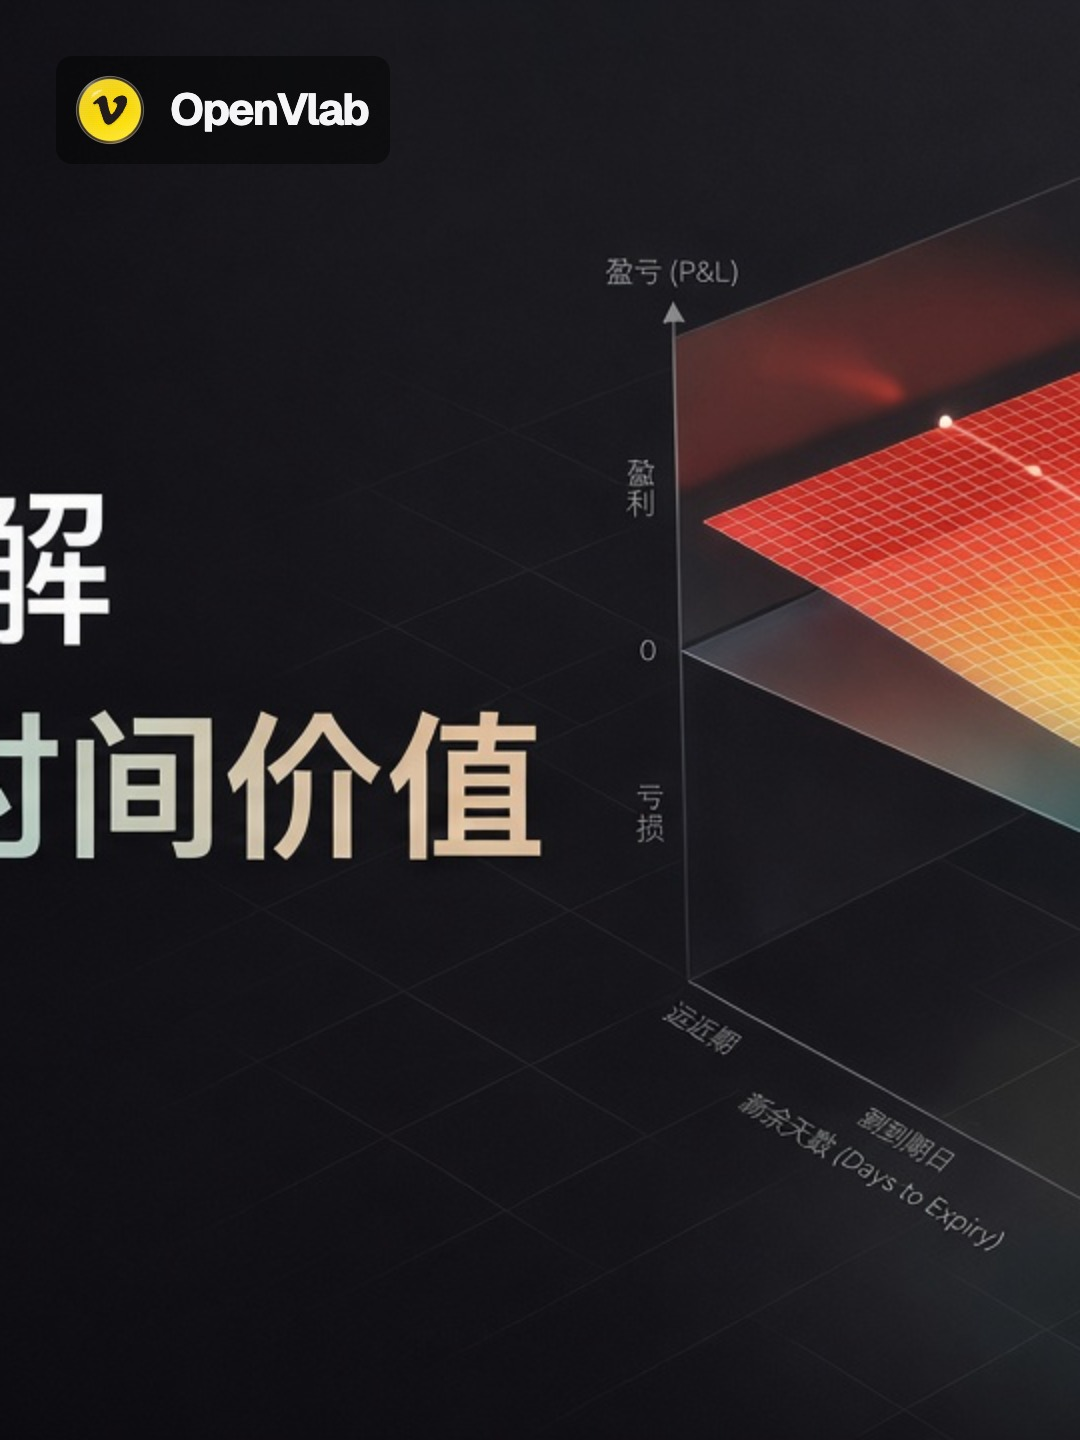
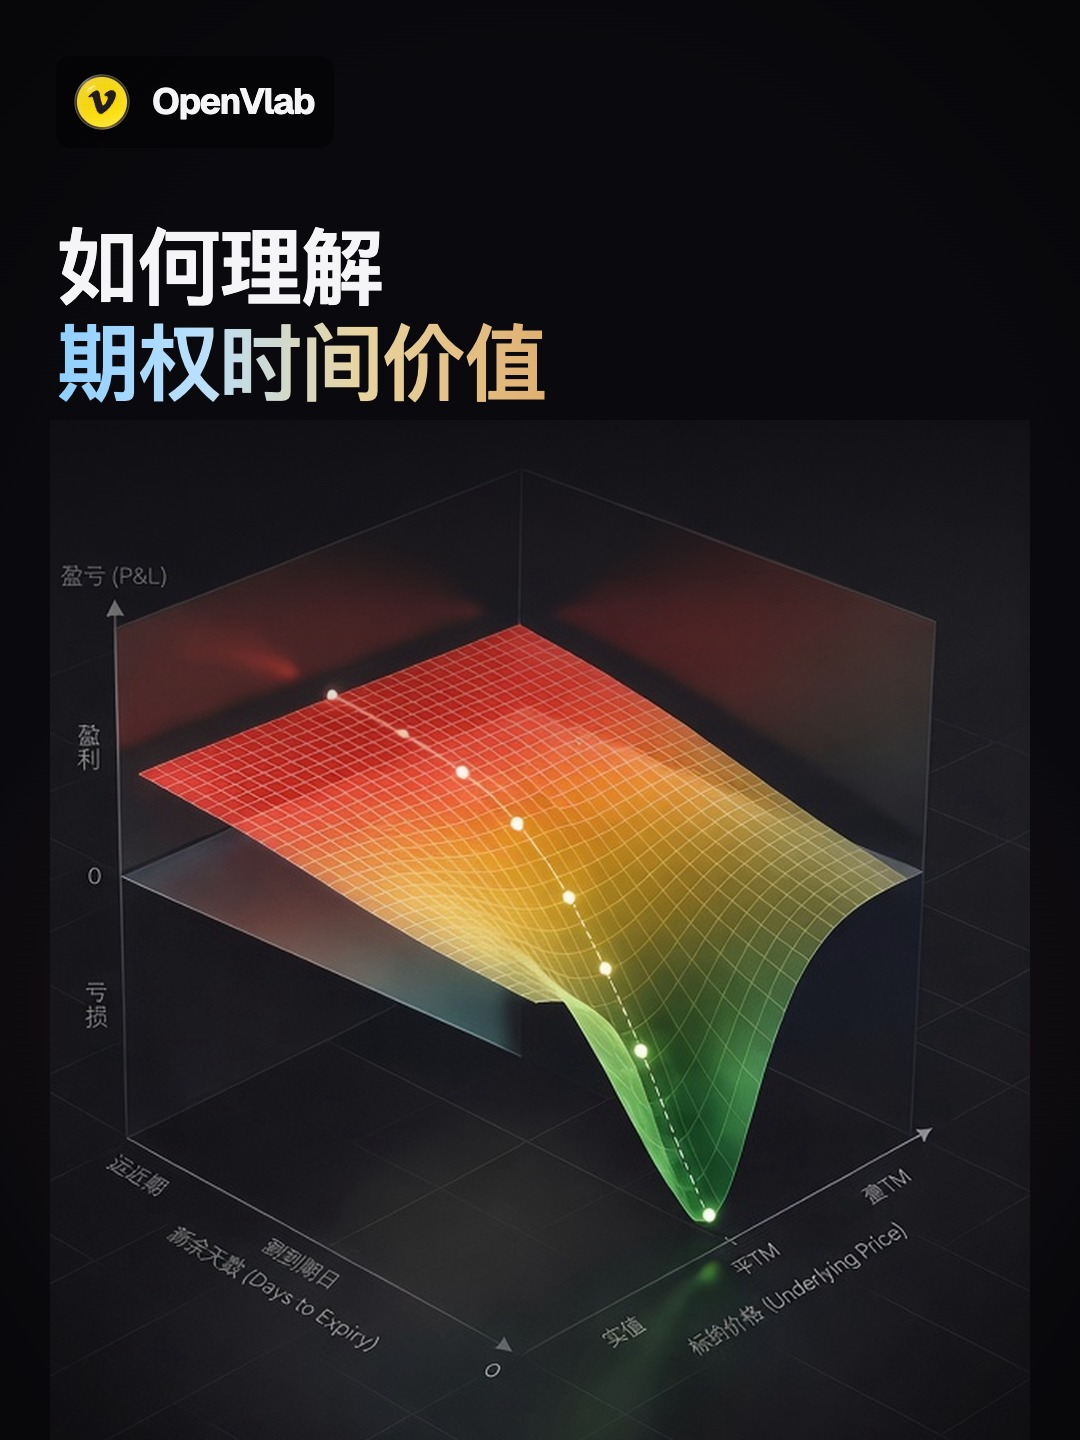
fix(openvlab-strategy): re-layout 4:3 and 3:4 covers
Stop cropping the 16:9 bake. Compose brand + Remotion title over a
title-free surface plate, stacked like surf covers.

diff --git a/src/openvlab-strategy/Cover.tsx b/src/openvlab-strategy/Cover.tsx
@@ -6,8 +6,16 @@ import { SANS } from "../shared/fonts";
 /** Brand wordmark — same stack as openvlab-surf Cover (Geist / SANS). */
 export const BRAND = SANS;
 
-const ART = "openvlab-strategy/covers/cover-art.jpg";
 const LOGO = "openvlab-strategy/logo.svg";
+const ART_16 = "openvlab-strategy/covers/cover-art.jpg";
+const SURFACE = "openvlab-strategy/covers/surface-plate.png";
+
+const TITLE_L1 = "如何理解";
+const TITLE_L2 = "期权时间价值";
+
+/** Match the baked 16:9 title: 期权 cool cyan → 时间价值 warm peach. */
+const TITLE_GRAD =
+  "linear-gradient(90deg, #8ecfff 0%, #b8dfff 28%, #e8d4a0 62%, #e0b070 100%)";
 
 type BrandBarProps = {
   mark: number;
@@ -39,6 +47,7 @@ const BrandBar: React.FC<BrandBarProps> = ({
       padding: `${padY}px ${padX}px ${padY}px ${padY}px`,
       borderRadius: radius,
       background: "rgba(0,0,0,0.45)",
+      zIndex: 3,
     }}
   >
     <BrandMark size={mark} src={LOGO} />
@@ -58,60 +67,153 @@ const BrandBar: React.FC<BrandBarProps> = ({
   </div>
 );
 
-type FrameProps = {
-  width: number;
-  height: number;
-  /** CSS object-position so the baked title stays in frame when cropping. */
-  objectPosition?: string;
-  brand: BrandBarProps;
+type TitleBlockProps = {
+  left: number;
+  top: number;
+  fontSize: number;
+  lineHeight?: number;
+  maxWidth?: number;
 };
 
-const CoverFrame: React.FC<FrameProps> = ({ width, height, objectPosition = "50% 45%", brand }) => (
+const TitleBlock: React.FC<TitleBlockProps> = ({
+  left,
+  top,
+  fontSize,
+  lineHeight = 1.12,
+  maxWidth,
+}) => (
+  <div
+    style={{
+      position: "absolute",
+      left,
+      top,
+      maxWidth,
+      zIndex: 3,
+      fontFamily: SANS,
+      fontWeight: 800,
+      fontSize,
+      letterSpacing: "-0.03em",
+      lineHeight,
+      whiteSpace: "nowrap",
+    }}
+  >
+    <div style={{ color: "#f5f5f7" }}>{TITLE_L1}</div>
+    <div
+      style={{
+        backgroundImage: TITLE_GRAD,
+        WebkitBackgroundClip: "text",
+        backgroundClip: "text",
+        color: "transparent",
+        WebkitTextFillColor: "transparent",
+      }}
+    >
+      {TITLE_L2}
+    </div>
+  </div>
+);
+
+/**
+ * 16:9 — keep the approved baked cover-art (title + surface already composed).
+ */
+export const OpenVlabStrategyCover: React.FC = () => (
   <AbsoluteFill style={{ background: "#0a0a0e", overflow: "hidden" }}>
     <Img
-      src={staticFile(ART)}
-      style={{
-        position: "absolute",
-        inset: 0,
-        width,
-        height,
-        objectFit: "cover",
-        objectPosition,
-      }}
+      src={staticFile(ART_16)}
+      style={{ position: "absolute", inset: 0, width: 1920, height: 1080, objectFit: "cover" }}
     />
-    <BrandBar {...brand} />
+    <BrandBar mark={96} pad={72} gap={22} wordSize={52} />
   </AbsoluteFill>
 );
 
 /**
- * Strategy cover Still — art from public/openvlab-strategy/covers/cover-art.jpg
- * (title + 3D surface), brand lockup top-left: logo.svg + OpenVlab in SANS.
+ * 4:3 (1440×1080) — re-layout like surf: brand + title on top, surface fills the lower half.
  */
-export const OpenVlabStrategyCover: React.FC = () => (
-  <CoverFrame
-    width={1920}
-    height={1080}
-    objectPosition="50% 50%"
-    brand={{ mark: 96, pad: 72, gap: 22, wordSize: 52 }}
-  />
-);
+export const OpenVlabStrategyCover43: React.FC = () => {
+  const W = 1440;
+  const H = 1080;
+  return (
+    <AbsoluteFill style={{ background: "#0a0a0e", overflow: "hidden", fontFamily: SANS }}>
+      <AbsoluteFill
+        style={{
+          background:
+            "radial-gradient(ellipse 70% 55% at 55% 72%, rgba(220,80,40,0.14) 0%, rgba(10,10,14,0) 70%)",
+        }}
+      />
+      {/* surface lower / slightly right */}
+      <Img
+        src={staticFile(SURFACE)}
+        style={{
+          position: "absolute",
+          left: 80,
+          top: 320,
+          width: W - 100,
+          height: H - 280,
+          objectFit: "contain",
+          objectPosition: "50% 40%",
+        }}
+      />
+      <AbsoluteFill
+        style={{
+          background:
+            "linear-gradient(180deg, rgba(10,10,14,0.98) 0px, rgba(10,10,14,0.88) 280px, rgba(10,10,14,0.15) 520px, rgba(10,10,14,0) 640px)",
+          pointerEvents: "none",
+        }}
+      />
+      <AbsoluteFill
+        style={{
+          background:
+            "radial-gradient(ellipse 90% 90% at 50% 55%, rgba(0,0,0,0) 55%, rgba(0,0,0,0.5) 100%)",
+          pointerEvents: "none",
+        }}
+      />
+      <BrandBar mark={72} pad={72} gap={18} wordSize={40} padY={12} padX={22} radius={16} />
+      <TitleBlock left={72} top={200} fontSize={96} />
+    </AbsoluteFill>
+  );
+};
 
-/** 4:3 cover (1440×1080): same art cropped to fill, brand top-left. */
-export const OpenVlabStrategyCover43: React.FC = () => (
-  <CoverFrame
-    width={1440}
-    height={1080}
-    objectPosition="50% 48%"
-    brand={{ mark: 88, pad: 64, gap: 20, wordSize: 48 }}
-  />
-);
-
-/** 3:4 cover (1080×1440): same art cropped to fill, brand top-left. */
-export const OpenVlabStrategyCover34: React.FC = () => (
-  <CoverFrame
-    width={1080}
-    height={1440}
-    objectPosition="50% 42%"
-    brand={{ mark: 84, pad: 56, gap: 18, wordSize: 44, padY: 12, padX: 22, radius: 16 }}
-  />
-);
+/**
+ * 3:4 (1080×1440) — stacked re-layout: brand + title on top, surface fills the lower frame.
+ */
+export const OpenVlabStrategyCover34: React.FC = () => {
+  const W = 1080;
+  const H = 1440;
+  return (
+    <AbsoluteFill style={{ background: "#0a0a0e", overflow: "hidden", fontFamily: SANS }}>
+      <AbsoluteFill
+        style={{
+          background:
+            "radial-gradient(ellipse 80% 50% at 50% 70%, rgba(220,80,40,0.14) 0%, rgba(10,10,14,0) 70%)",
+        }}
+      />
+      <Img
+        src={staticFile(SURFACE)}
+        style={{
+          position: "absolute",
+          left: 20,
+          top: 420,
+          width: W - 40,
+          height: H - 400,
+          objectFit: "contain",
+          objectPosition: "50% 35%",
+        }}
+      />
+      <AbsoluteFill
+        style={{
+          background:
+            "linear-gradient(180deg, rgba(10,10,14,0.98) 0px, rgba(10,10,14,0.9) 340px, rgba(10,10,14,0.2) 620px, rgba(10,10,14,0) 780px)",
+          pointerEvents: "none",
+        }}
+      />
+      <AbsoluteFill
+        style={{
+          background:
+            "radial-gradient(ellipse 90% 90% at 50% 55%, rgba(0,0,0,0) 55%, rgba(0,0,0,0.55) 100%)",
+          pointerEvents: "none",
+        }}
+      />
+      <BrandBar mark={68} pad={56} gap={16} wordSize={36} padY={12} padX={20} radius={14} />
+      <TitleBlock left={56} top={220} fontSize={84} lineHeight={1.14} />
+    </AbsoluteFill>
+  );
+};
